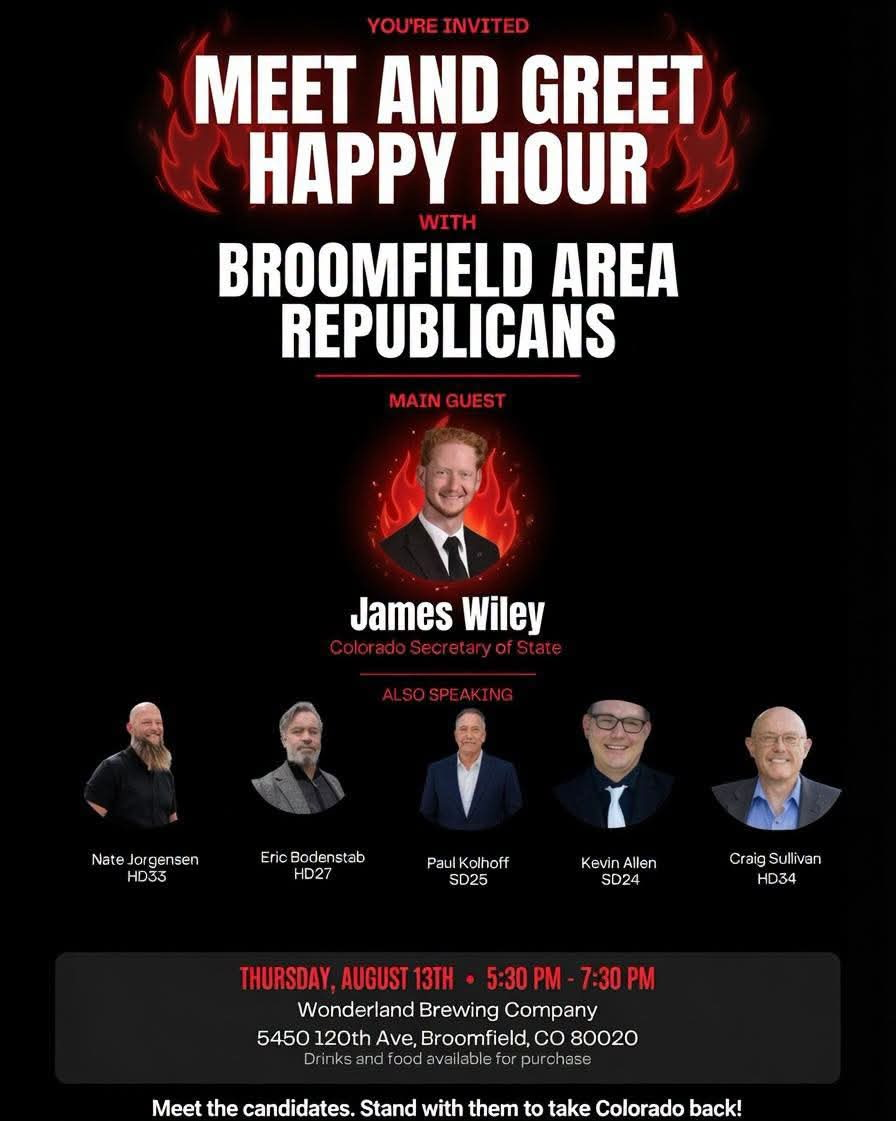
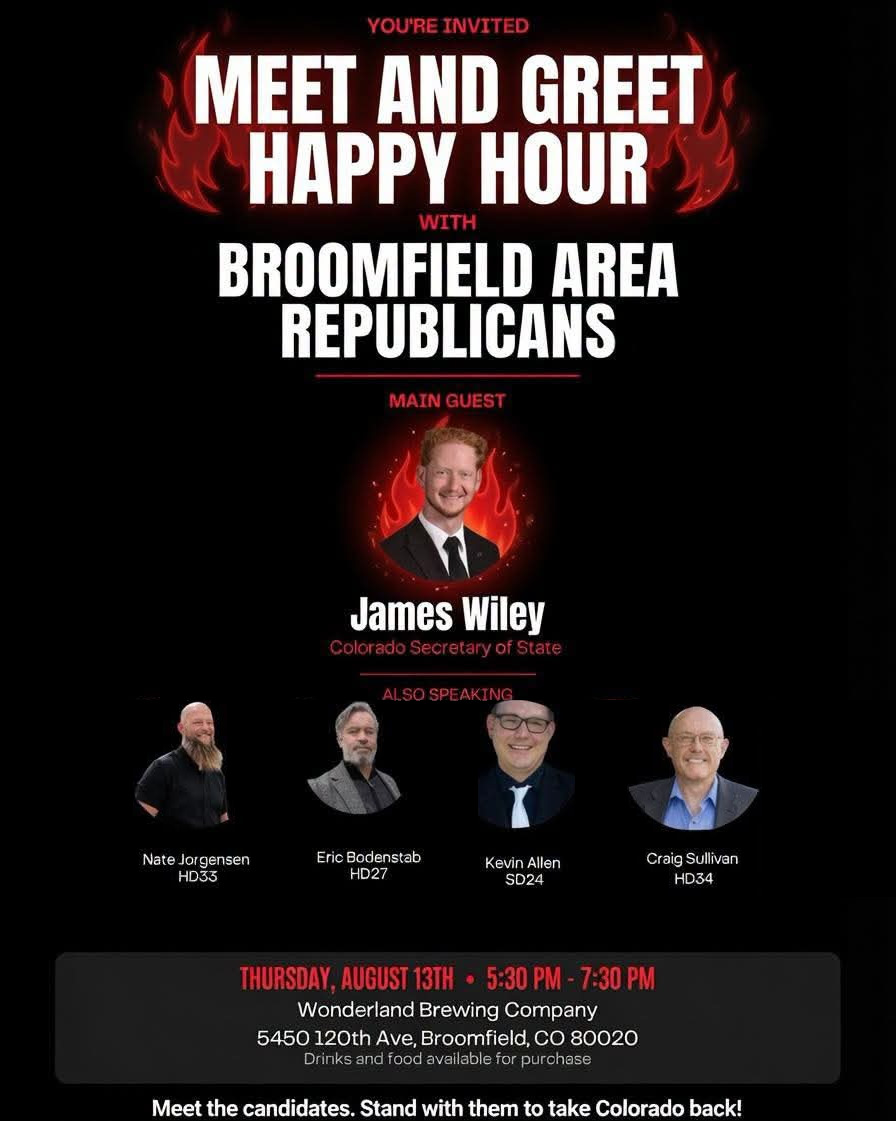
event update

Changed region(s): [[0.0938, 0.6244, 0.9375, 0.8118]]

diff --git a/events.html b/events.html
@@ -130,7 +130,7 @@
         <a href="assets/img/events/meet-greet-happy-hour-2026-08-13.jpg" target="_blank" rel="noopener" aria-label="Open the full-size event flier">
           <img class="cstop__flier"
                src="assets/img/events/meet-greet-happy-hour-2026-08-13.jpg"
-               alt="Meet and Greet Happy Hour with Broomfield Area Republicans. Main guest James Wiley. Also speaking: Nate Jorgensen HD 33, Eric Bodenstab HD 27, Paul Kolhoff SD 25, Kevin Allen SD 24, Craig Sullivan HD 34. Thursday, August 13, 5:30 to 7:30 PM, Wonderland Brewing Company, 5450 120th Ave, Broomfield, CO 80020." />
+               alt="Meet and Greet Happy Hour with Broomfield Area Republicans. Main guest James Wiley. Also speaking: Nate Jorgensen HD 33, Eric Bodenstab HD 27, Kevin Allen SD 24, Craig Sullivan HD 34. Thursday, August 13, 5:30 to 7:30 PM, Wonderland Brewing Company, 5450 120th Ave, Broomfield, CO 80020." />
         </a>
         <p style="margin:12px 0 0; font-size:.82rem; color:#8A8A8A; text-align:center;">
           <a href="assets/img/events/meet-greet-happy-hour-2026-08-13.jpg" download style="color:#B5B5B5;">Download the flier &darr;</a>
@@ -156,7 +156,6 @@
         <ul class="cstop__speakers">
           <li><span class="n">Nate Jorgensen</span><span class="d">House District 33</span></li>
           <li><span class="n">Eric Bodenstab</span><span class="d">House District 27</span></li>
-          <li><span class="n">Paul Kolhoff</span><span class="d">Senate District 25</span></li>
           <li><span class="n">Kevin Allen</span><span class="d">Senate District 24</span></li>
           <li><span class="n">Craig Sullivan</span><span class="d">House District 34</span></li>
         </ul>
@@ -214,7 +213,7 @@
         </details>
 
         <div class="btn-row">
-          <a class="btn btn--ghost-light" href="https://calendar.google.com/calendar/render?action=TEMPLATE&amp;text=Meet%20%26%20Greet%20Happy%20Hour%20with%20Broomfield%20Area%20Republicans&amp;dates=20260813T233000Z/20260814T013000Z&amp;location=Wonderland%20Brewing%20Company%2C%205450%20120th%20Ave%2C%20Broomfield%2C%20CO%2080020&amp;details=Main%20guest%3A%20James%20Wiley%2C%20Republican%20nominee%20for%20Colorado%20Secretary%20of%20State.%20Also%20speaking%3A%20Nate%20Jorgensen%20(HD%2033)%2C%20Eric%20Bodenstab%20(HD%2027)%2C%20Paul%20Kolhoff%20(SD%2025)%2C%20Kevin%20Allen%20(SD%2024)%2C%20Craig%20Sullivan%20(HD%2034)." target="_blank" rel="noopener">Add to Calendar</a>
+          <a class="btn btn--ghost-light" href="https://calendar.google.com/calendar/render?action=TEMPLATE&amp;text=Meet%20%26%20Greet%20Happy%20Hour%20with%20Broomfield%20Area%20Republicans&amp;dates=20260813T233000Z/20260814T013000Z&amp;location=Wonderland%20Brewing%20Company%2C%205450%20120th%20Ave%2C%20Broomfield%2C%20CO%2080020&amp;details=Main%20guest%3A%20James%20Wiley%2C%20Republican%20nominee%20for%20Colorado%20Secretary%20of%20State.%20Also%20speaking%3A%20Nate%20Jorgensen%20(HD%2033)%2C%20Eric%20Bodenstab%20(HD%2027)%2C%20Kevin%20Allen%20(SD%2024)%2C%20Craig%20Sullivan%20(HD%2034)." target="_blank" rel="noopener">Add to Calendar</a>
           <a class="btn btn--ghost-light" href="https://www.google.com/maps/search/?api=1&amp;query=Wonderland%20Brewing%20Company%2C%205450%20120th%20Ave%2C%20Broomfield%2C%20CO%2080020" target="_blank" rel="noopener">Get Directions</a>
         </div>
       </div>

diff --git a/redbook.html b/redbook.html
@@ -155,7 +155,7 @@
         <div class="card" style="border-color: var(--navy);">
           <span class="race-card__badge race-card__badge--neutral" style="position: static; display: inline-block; margin-bottom: 12px;">GOP Primary &middot; Neutral</span>
           <h3 style="margin: 8px 0;">Still recruiting.</h3>
-          <p>A neutral badge flags a race where BCRC is still fielding a Republican, like the open Ward 1 council seat. See one you could fill? Talk to the Chair.</p>
+          <p>A neutral badge flags a race where BCRC is still fielding a Republican, like the open SD 25 and Ward 1 seats. See one you could fill? Talk to the Chair.</p>
         </div>
       </div>
     </div>
@@ -348,23 +348,13 @@
 
     <div class="race-grid">
 
-      <article class="race-card race-card--endorsed">
-        <span class="race-card__badge race-card__badge--endorsed">BCRC Endorsed</span>
+      <article class="race-card race-card--neutral">
+        <span class="race-card__badge race-card__badge--neutral">Open Seat &middot; Candidate Wanted</span>
         <div class="race-card__office">Colorado State Senate &middot; SD 25</div>
         <h3 class="race-card__title">State Senate, SD 25</h3>
-        <ul class="race-card__candidates">
-          <li class="race-card__candidate">
-            <!-- Text-only card: add a headshot at assets/img/candidates/kolhoff.jpg and a
-                 campaign URL when they are available, matching the HD 33 card below. -->
-            <div class="race-card__candidate-info">
-              <span class="race-card__name race-card__name--endorsed">Paul Kolhoff</span>
-              <p class="race-card__detail">Republican nominee for SD 25, named by the district vacancy committee after Rich Guggenheim withdrew. SD 25 covers Broomfield and Northglenn and is one of the most flippable seats on the ballot.</p>
-            </div>
-          </li>
-        </ul>
+        <p class="race-card__detail" style="margin: 4px 0 12px;">Rich Guggenheim has withdrawn from this race. <strong>BCRC is actively recruiting a Republican</strong> for this open, high-stakes flip opportunity covering Broomfield and Northglenn. Candidates must be affiliated Republicans to appear on the ballot. If you live in SD 25 and are ready to step up, start the conversation now.</p>
         <p class="race-card__note"><strong>November opponent:</strong> William Lindstedt (Democrat, incumbent).</p>
-        <!-- Remove this link after Aug 13, 2026 (event section comes off events.html). -->
-        <a class="race-card__link" href="events.html#campaign-stop">Meet him August 13 &rarr;</a>
+        <a class="race-card__link" href="run-for-office.html">Talk to the Chair &rarr;</a>
       </article>
 
       <article class="race-card race-card--endorsed">

diff --git a/news.html b/news.html
@@ -164,11 +164,10 @@
       </article>
 
       <article class="card">
-        <span class="tag tag--red">BCRC Endorsed &middot; State Senate, SD 25</span>
-        <h3 style="margin: 12px 0 8px;">Paul Kolhoff</h3>
-        <p>Republican nominee for SD 25, named by the district vacancy committee after Rich Guggenheim withdrew. SD 25 covers Broomfield and Northglenn and is one of the most flippable seats on the ballot.</p>
-        <!-- Swap this for his campaign site link when one exists. -->
-        <div class="card__cta"><a href="events.html#campaign-stop">Meet Him August 13 &rarr;</a></div>
+        <span class="tag">Open Seat &middot; State Senate, SD 25</span>
+        <h3 style="margin: 12px 0 8px;">SD 25 &mdash; Candidate Wanted</h3>
+        <p>SD 25 covers Broomfield and Northglenn and is one of the most flippable seats on the ballot. BCRC is actively recruiting a Republican to carry it in November.</p>
+        <div class="card__cta"><a href="run-for-office.html">Learn About Running &rarr;</a></div>
       </article>
 
       <article class="card">
